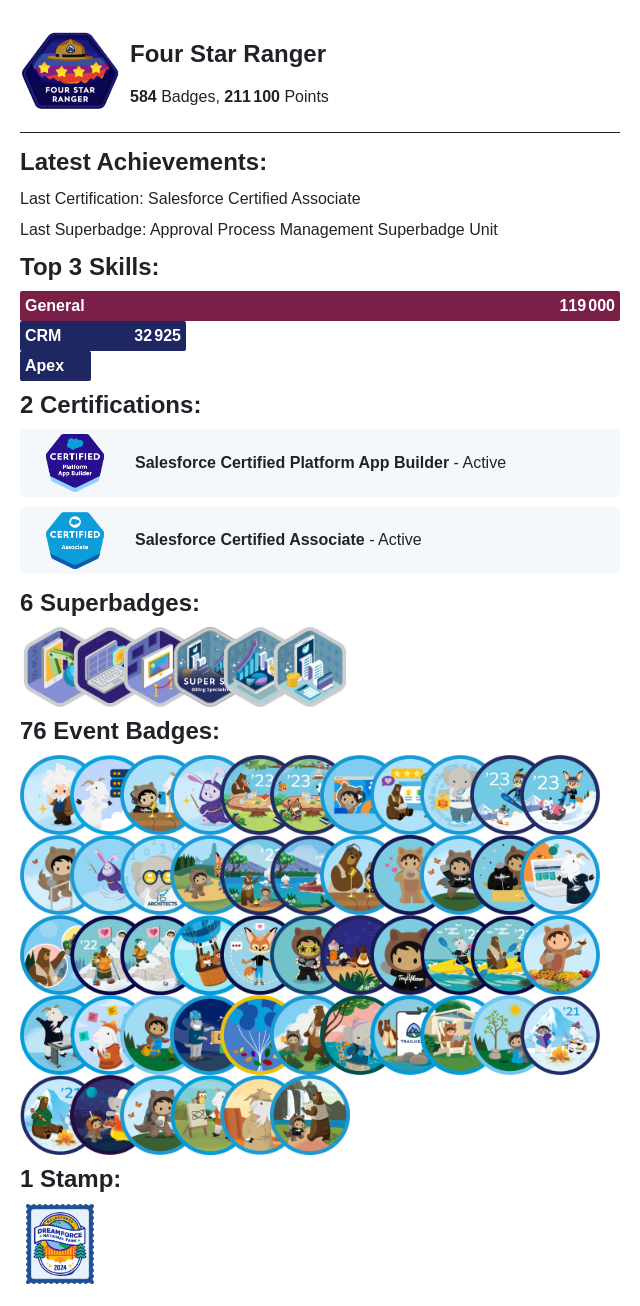
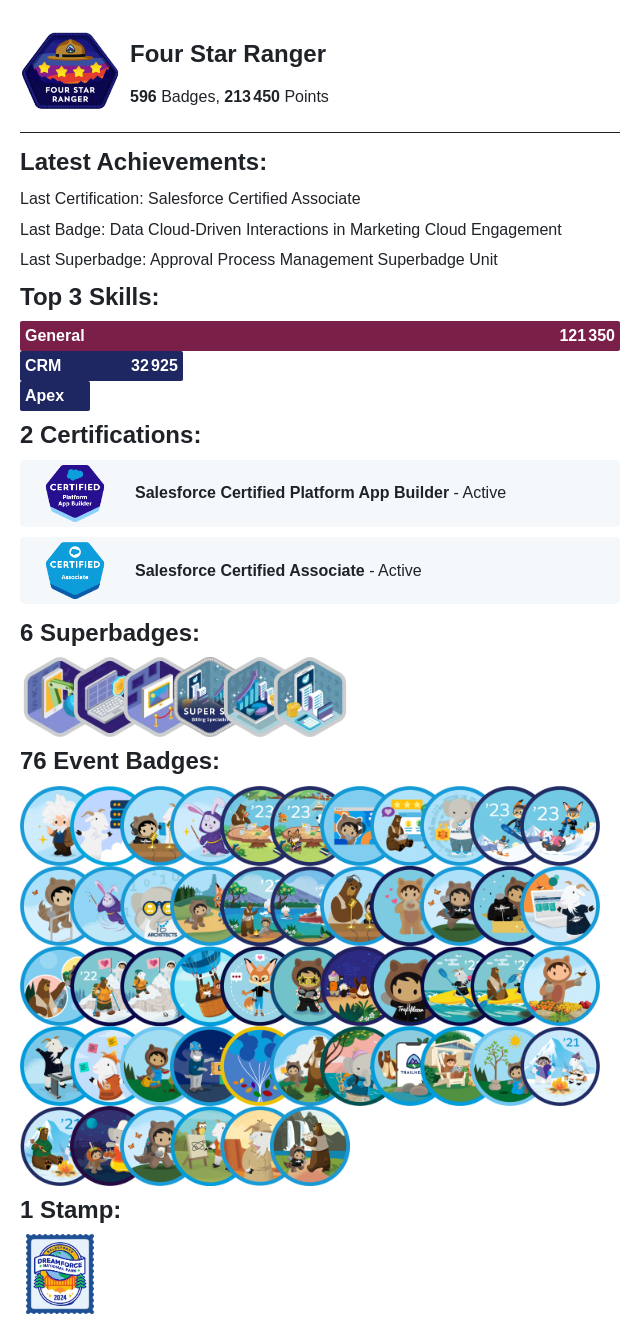
Update Trailhead Stats in README.md

diff --git a/README.md b/README.md
@@ -38,7 +38,14 @@
 <h2><img src="https://raw.githubusercontent.com/Tarikul-Islam-Anik/Animated-Fluent-Emojis/master/Emojis/Activities/Teddy%20Bear.png" alt="Teddy Bear" width="25" height="25" />
   My Trailhead Stats</h2>
 <!--TH_Stats:start-->
-undefined
+
+<a href="https://www.salesforce.com/trailblazer/nabondance">
+<picture>
+    <source media="(prefers-color-scheme: light)" srcset="TS-cards/TScard-light.png">
+    <source media="(prefers-color-scheme: dark)" srcset="TS-cards/TScard-dark.png">
+    <img alt="Shows the Trailhead Stats card in either light or dark theme." src="TS-cards/TScard-light.png">
+</picture>
+</a>
 <!--TH_Stats:end-->
 
 <details>
